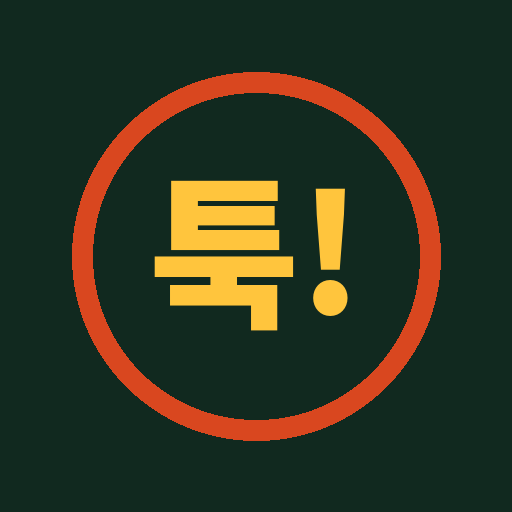
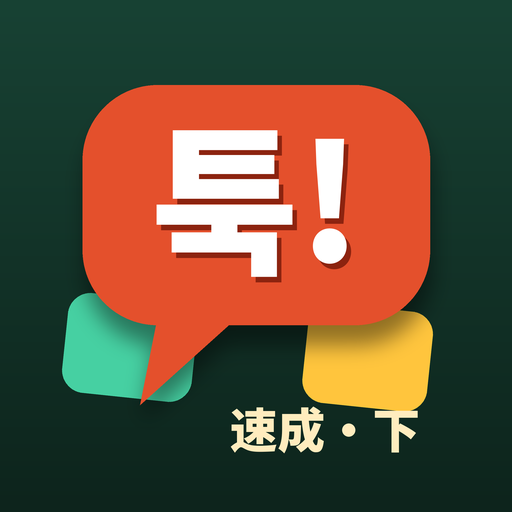
앱 아이콘: 툭! 말풍선 + 덩어리 블록 (홈 화면·안드로이드 마스크·파비콘)
Claude-Session: https://claude.ai/code/session_01WJ6GTDedcbWJUH2LnjdVuf

diff --git a/sw.js b/sw.js
@@ -1,6 +1,6 @@
 // 덩어리 툭! 오프라인 캐시 (버전 b634be00)
 const CACHE='dtuk-b634be00';
-const FILES=['./','./index.html','./manifest.webmanifest','./icons/icon-192.png','./icons/icon-512.png'];
+const FILES=['./','./index.html','./manifest.webmanifest','./icons/icon-192.png','./icons/icon-512.png','./icons/icon-maskable-512.png','./icons/apple-touch-icon.png','./icons/favicon-64.png'];
 self.addEventListener('install',e=>{e.waitUntil(caches.open(CACHE).then(c=>c.addAll(FILES)).then(()=>self.skipWaiting()))});
 self.addEventListener('activate',e=>{e.waitUntil(caches.keys().then(ks=>Promise.all(ks.filter(k=>k!==CACHE).map(k=>caches.delete(k)))).then(()=>self.clients.claim()))});
 // 화면은 인터넷이 되면 최신본, 안 되면 저장본

diff --git a/index.html b/index.html
@@ -6,8 +6,8 @@
 <meta name="theme-color" content="#11291F">
 <title>速成 덩어리 툭!</title>
 <link rel="manifest" href="manifest.webmanifest">
-<link rel="icon" href="icons/icon-192.png">
-<link rel="apple-touch-icon" href="icons/icon-192.png">
+<link rel="icon" type="image/png" href="icons/favicon-64.png">
+<link rel="apple-touch-icon" href="icons/apple-touch-icon.png">
 <meta name="apple-mobile-web-app-capable" content="yes">
 <meta name="mobile-web-app-capable" content="yes">
 <meta name="apple-mobile-web-app-title" content="덩어리 툭">

diff --git a/src/make_icon.py b/src/make_icon.py
@@ -1,0 +1,48 @@
+from PIL import Image,ImageDraw,ImageFont,ImageFilter
+BLACK='/usr/share/fonts/opentype/noto/NotoSansCJK-Black.ttc'
+N=2048
+def make(variant):
+  im=Image.new('RGBA',(N,N));d=ImageDraw.Draw(im)
+  # 배경: 짙은 초록 세로 그라데이션
+  top=(24,66,52);bot=(13,36,28)
+  for y in range(N):
+    t=y/N;d.line([(0,y),(N,y)],fill=tuple(int(top[i]*(1-t)+bot[i]*t) for i in range(3))+(255,))
+  # 덩어리 블록 (뒤쪽, 살짝 기울인 노란·초록 블록)
+  blk=Image.new('RGBA',(N,N));bd=ImageDraw.Draw(blk)
+  bd.rounded_rectangle((300,1240,820,1640),radius=90,fill=(70,208,162,255))
+  bd.rounded_rectangle((1260,1180,1760,1580),radius=90,fill=(255,197,61,255))
+  blk=blk.rotate(-6,resample=Image.BICUBIC,center=(N/2,N/2))
+  im.alpha_composite(blk)
+  # 말풍선 그림자
+  sh=Image.new('RGBA',(N,N));sd=ImageDraw.Draw(sh)
+  sd.rounded_rectangle((330,380,1720,1340),radius=300,fill=(0,0,0,110))
+  sd.polygon([(620,1260),(560,1640),(940,1300)],fill=(0,0,0,110))
+  sh=sh.filter(ImageFilter.GaussianBlur(40));sh=sh.transform((N,N),Image.AFFINE,(1,0,-10,0,1,-40))
+  im.alpha_composite(sh)
+  # 말풍선 (빨강)
+  d=ImageDraw.Draw(im)
+  d.rounded_rectangle((330,340,1720,1300),radius=300,fill=(228,80,44,255))
+  d.polygon([(640,1220),(560,1620),(960,1260)],fill=(228,80,44,255))
+  # 툭!
+  f=ImageFont.truetype(BLACK,640,index=1)
+  t='툭!';bb=d.textbbox((0,0),t,font=f)
+  cx,cy=1025,815
+  d.text((cx-(bb[0]+bb[2])/2+18,cy-(bb[1]+bb[3])/2+22),t,font=f,fill=(140,35,15,255))
+  d.text((cx-(bb[0]+bb[2])/2,cy-(bb[1]+bb[3])/2),t,font=f,fill=(255,255,255,255))
+  # 아래 라벨
+  if variant=='full':
+    f2=ImageFont.truetype(BLACK,190,index=2)  # SC
+    t2='速成·下';bb=d.textbbox((0,0),t2,font=f2)
+    d.text((1180-(bb[0]+bb[2])/2+120,1720-(bb[1]+bb[3])/2),t2,font=f2,fill=(255,236,190,255))
+  return im
+full=make('full')
+for s,name in ((512,'icon-512.png'),(192,'icon-192.png'),(180,'apple-touch-icon.png')):
+  full.resize((s,s),Image.LANCZOS).convert('RGB').save(name)
+simple=make('simple')
+simple.resize((64,64),Image.LANCZOS).convert('RGB').save('favicon-64.png')
+# 미리보기: 둥근 모서리 마스크로 홈화면처럼
+prev=Image.new('RGB',(1400,560),(237,243,239))
+for i,(s,src) in enumerate(((440,full),(200,full),(96,full),(64,simple))):
+  ic=src.resize((s,s),Image.LANCZOS);m=Image.new('L',(s,s),0);ImageDraw.Draw(m).rounded_rectangle((0,0,s-1,s-1),radius=int(s*.22),fill=255)
+  x=[40,560,840,1020][i];prev.paste(ic,(x,(560-s)//2),m)
+prev.save('preview.png')

diff --git a/src/build.py b/src/build.py
@@ -7,8 +7,8 @@ m=re.match(r'(<title>.*?</title>)\s*<meta name="claude:viewport-fit-sides" conte
 title,style,body=m.group(1),m.group(2),m.group(3)
 ver=hashlib.md5(art.encode()).hexdigest()[:8]
 pwa='''<link rel="manifest" href="manifest.webmanifest">
-<link rel="icon" href="icons/icon-192.png">
-<link rel="apple-touch-icon" href="icons/icon-192.png">
+<link rel="icon" type="image/png" href="icons/favicon-64.png">
+<link rel="apple-touch-icon" href="icons/apple-touch-icon.png">
 <meta name="apple-mobile-web-app-capable" content="yes">
 <meta name="mobile-web-app-capable" content="yes">
 <meta name="apple-mobile-web-app-title" content="덩어리 툭">'''
@@ -38,11 +38,12 @@ open('site/index.html','w',encoding='utf-8').write(page(True))      # GitHub Pag
 open('site/manifest.webmanifest','w',encoding='utf-8').write(json.dumps({
  "name":"덩어리 툭! 速成 入门下","short_name":"덩어리 툭","start_url":"./","scope":"./","display":"standalone",
  "orientation":"portrait","background_color":"#EDF3EF","theme_color":"#11291F","lang":"ko",
- "icons":[{"src":"icons/icon-192.png","sizes":"192x192","type":"image/png","purpose":"any maskable"},
-          {"src":"icons/icon-512.png","sizes":"512x512","type":"image/png","purpose":"any maskable"}]},ensure_ascii=False,indent=1))
+ "icons":[{"src":"icons/icon-192.png","sizes":"192x192","type":"image/png","purpose":"any"},
+          {"src":"icons/icon-512.png","sizes":"512x512","type":"image/png","purpose":"any"},
+          {"src":"icons/icon-maskable-512.png","sizes":"512x512","type":"image/png","purpose":"maskable"}]},ensure_ascii=False,indent=1))
 open('site/sw.js','w',encoding='utf-8').write(f'''// 덩어리 툭! 오프라인 캐시 (버전 {ver})
 const CACHE='dtuk-{ver}';
-const FILES=['./','./index.html','./manifest.webmanifest','./icons/icon-192.png','./icons/icon-512.png'];
+const FILES=['./','./index.html','./manifest.webmanifest','./icons/icon-192.png','./icons/icon-512.png','./icons/icon-maskable-512.png','./icons/apple-touch-icon.png','./icons/favicon-64.png'];
 self.addEventListener('install',e=>{{e.waitUntil(caches.open(CACHE).then(c=>c.addAll(FILES)).then(()=>self.skipWaiting()))}});
 self.addEventListener('activate',e=>{{e.waitUntil(caches.keys().then(ks=>Promise.all(ks.filter(k=>k!==CACHE).map(k=>caches.delete(k)))).then(()=>self.clients.claim()))}});
 // 화면은 인터넷이 되면 최신본, 안 되면 저장본
